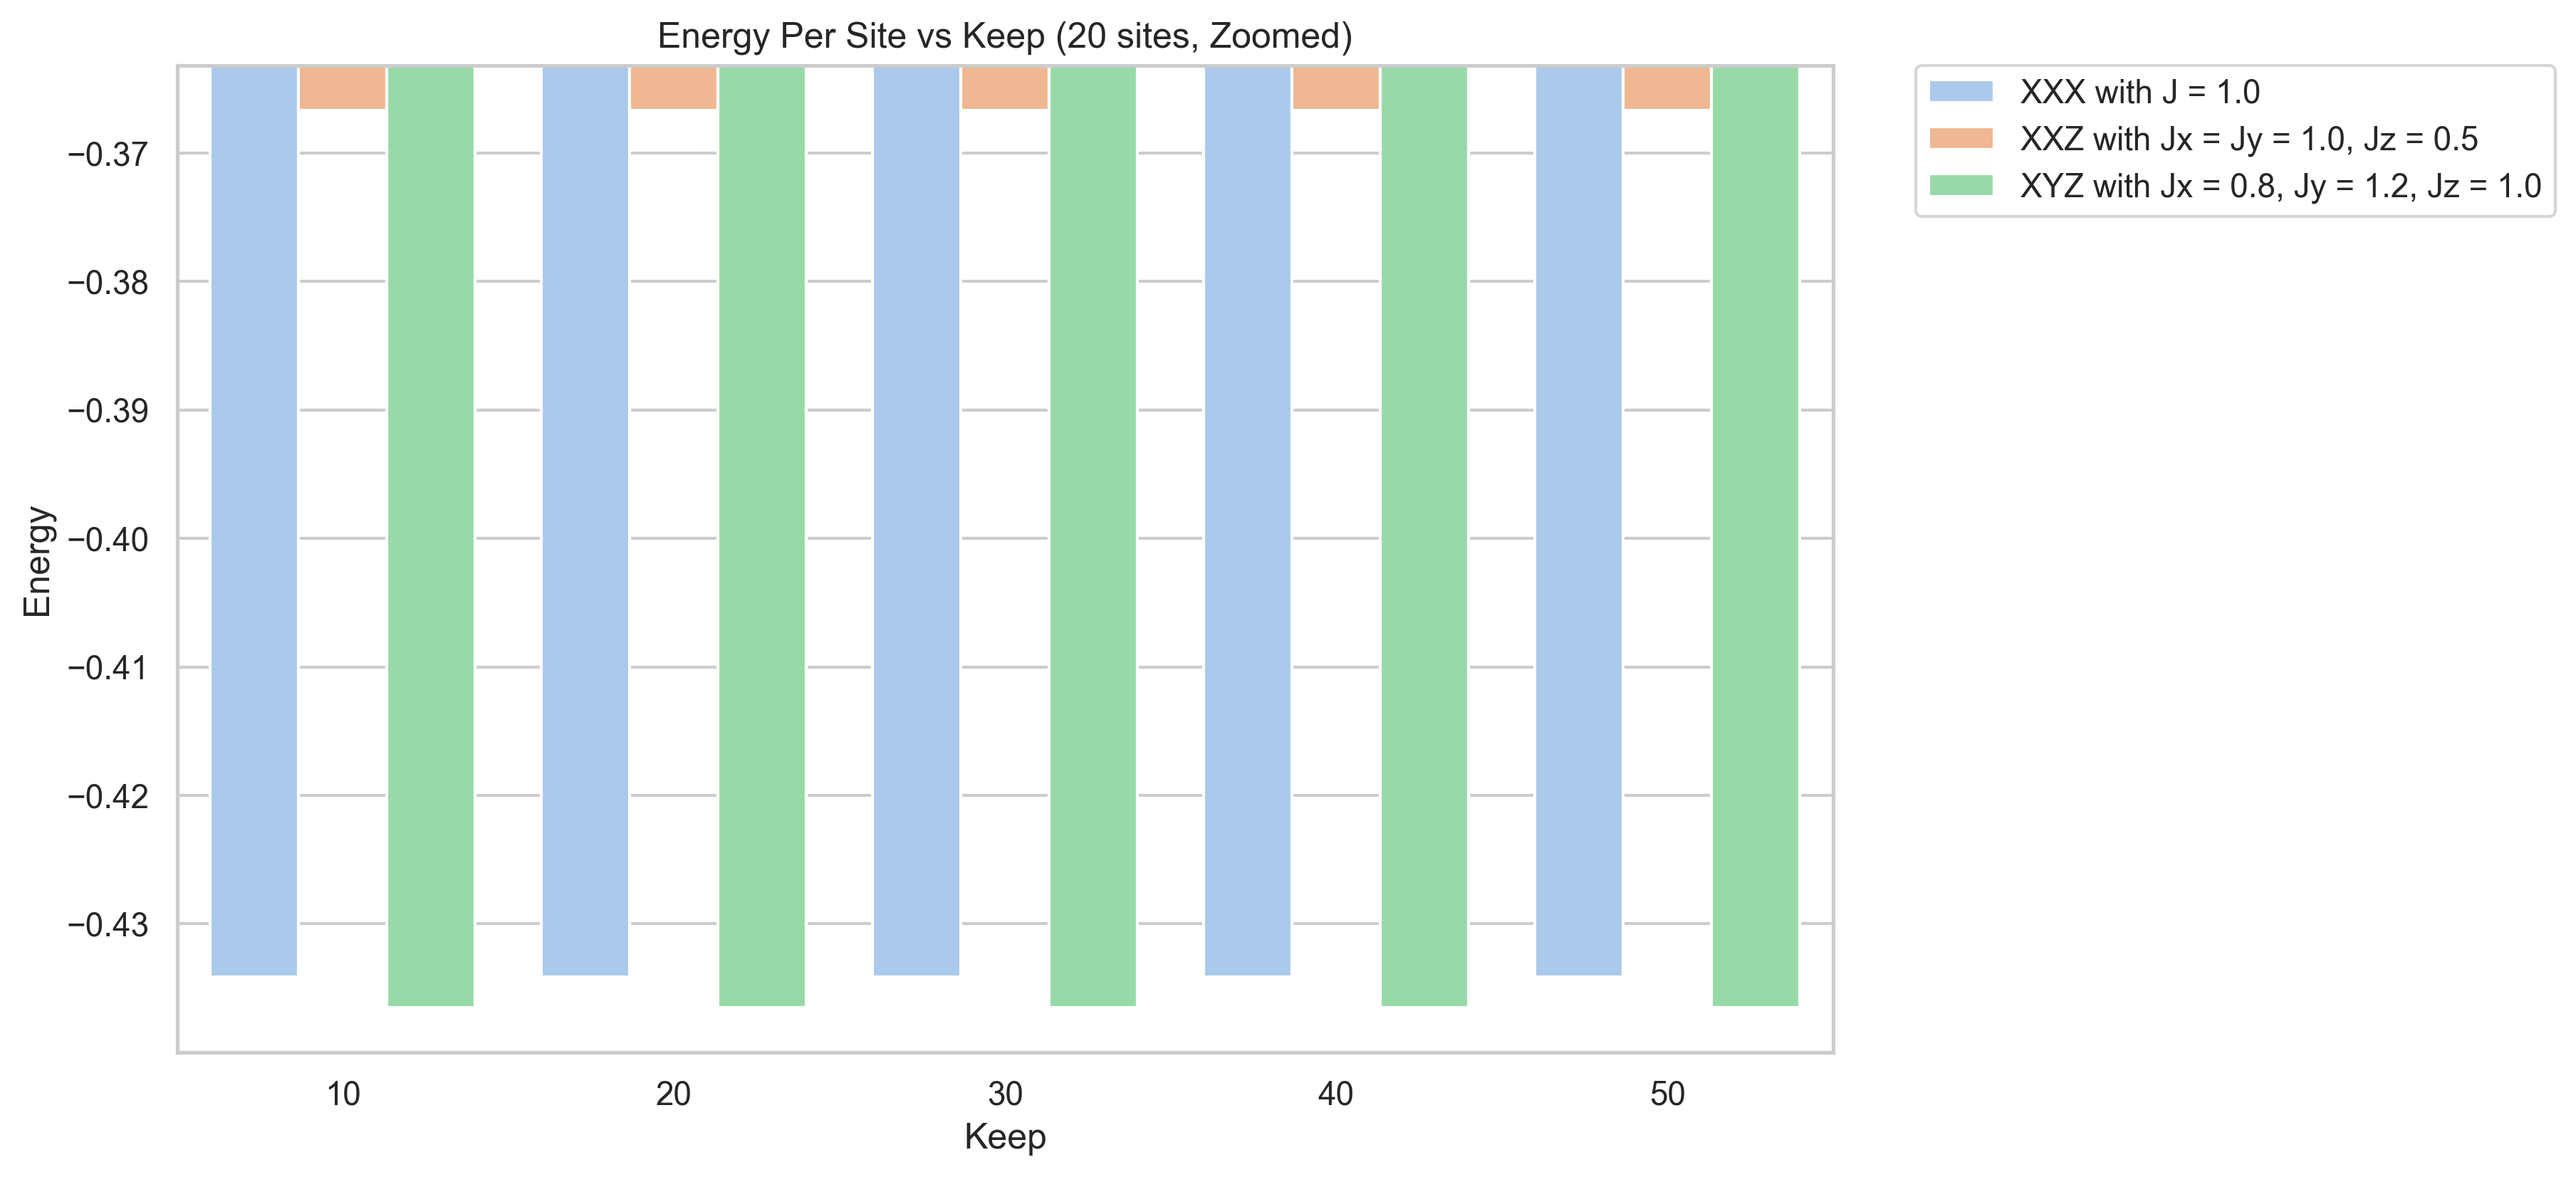
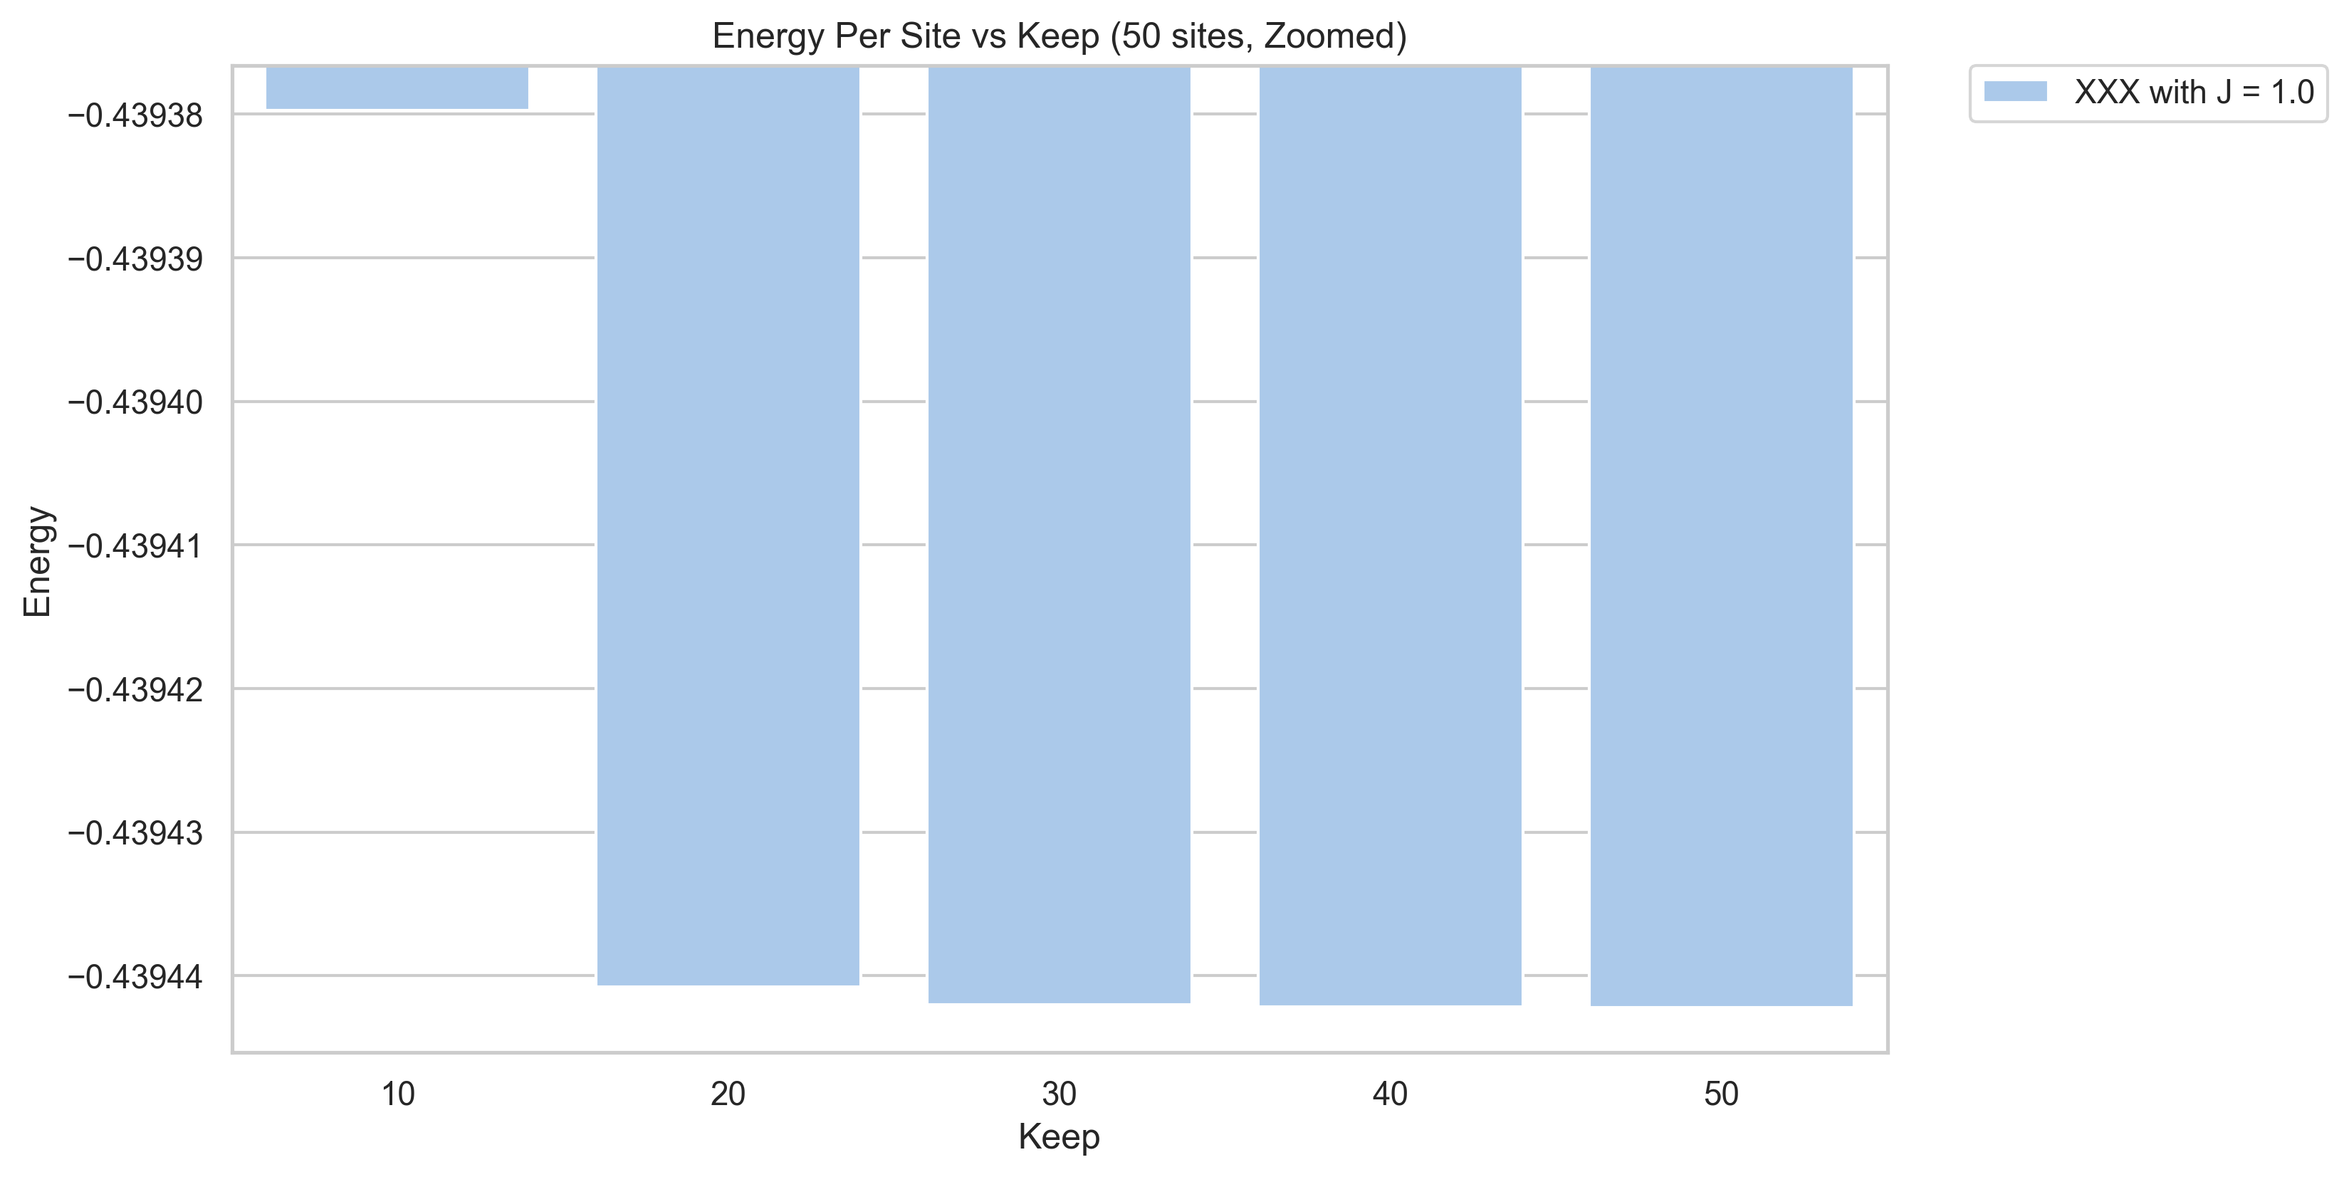
small graph changes

diff --git a/main.py b/main.py
@@ -161,7 +161,7 @@ def gen_XXX_graph(name, title):
     plt.savefig(os.path.join('visual', name), dpi=300, bbox_inches='tight')
     plt.close()
 
-def gen_XXZ_graph(name, title):
+def gen_XXZ_graph(name, title, labelled):
     j_list = [-2.0, -1.5, -1, -0.5, 0, 0.5, 1, 1.5, 2.0]
     start = single_site
     print(f"Creating graph {name}")
@@ -173,10 +173,15 @@ def gen_XXZ_graph(name, title):
             data.append({'Jx': jx, 'Jz': jz, 'Energy': energy})
 
     df = pd.DataFrame(data)
+    
     heatmap_data = df.pivot(index='Jx', columns='Jz', values='Energy')
 
     plt.figure(figsize=(8,6))
-    sns.heatmap(heatmap_data, cmap='coolwarm', cbar_kws={'label': 'Energy'})
+    if labelled == True:
+        sns.heatmap(heatmap_data, cmap='coolwarm', cbar_kws={'label': 'Energy'}, annot=True, fmt=".2f")
+    else:
+        sns.heatmap(heatmap_data, cmap='coolwarm', cbar_kws={'label': 'Energy'})
+
     plt.xlabel('Jz')
     plt.ylabel('Jx')
     plt.title(title)
@@ -192,14 +197,14 @@ def gen_keep_graph(name, title, zoom):
     print(f"Creating graph {name}")
     for k in keep_list:
         
-        energy = infinite_dmrg(sites=20, keep=k, start=start, debug=False, Jx=1.0, Jy=1.0, Jz=1.0)
+        energy = infinite_dmrg(sites=50, keep=k, start=start, debug=False, Jx=1.0, Jy=1.0, Jz=1.0)
         results.append({'Keep': k, 'Model': 'XXX with J = 1.0', 'Energy': energy})
 
-        energy = infinite_dmrg(sites=20, keep=k, start=start, debug=False, Jx=1.0, Jy=1.0, Jz=0.5)
-        results.append({'Keep': k, 'Model': 'XXZ with Jx = Jy = 1.0, Jz = 0.5', 'Energy': energy})
+    #    energy = infinite_dmrg(sites=50, keep=k, start=start, debug=False, Jx=1.0, Jy=1.0, Jz=0.5)
+     #   results.append({'Keep': k, 'Model': 'XXZ with Jx = Jy = 1.0, Jz = 0.5', 'Energy': energy})
         
-        energy = infinite_dmrg(sites=20, keep=k, start=start, debug=False, Jx=0.8, Jy=1.2, Jz=1.0)
-        results.append({'Keep': k, 'Model': 'XYZ with Jx = 0.8, Jy = 1.2, Jz = 1.0', 'Energy': energy})
+     #   energy = infinite_dmrg(sites=50, keep=k, start=start, debug=False, Jx=0.8, Jy=1.2, Jz=1.0)
+      #  results.append({'Keep': k, 'Model': 'XYZ with Jx = 0.8, Jy = 1.2, Jz = 1.0', 'Energy': energy})
 
     df = pd.DataFrame(results)
 
@@ -259,9 +264,10 @@ if __name__ == "__main__":
     np.set_printoptions(precision=10, suppress=True)
 
     os.makedirs('visual', exist_ok=True)
-    gen_keep_graph('energy_vs_keep.png', 'Energy Per Site vs Keep (20 sites)', False)
-    gen_keep_graph('energy_vs_keep_zoomed.png', 'Energy Per Site vs Keep (20 sites, Zoomed)', True)
-    gen_XXZ_graph('energy_vs_j_xxz.png', 'Energy Per Site vs Jx, Jz (Jx and Jz from -2.0 to 2.0, 10 sites)')
+    gen_keep_graph('energy_vs_keep.png', 'Energy Per Site vs Keep (50 sites)', False)
+    gen_keep_graph('energy_vs_keep_zoomed.png', 'Energy Per Site vs Keep (50 sites, Zoomed)', True)
+    gen_XXZ_graph('energy_vs_j_xxz_labelled.png', 'Energy Per Site vs Jx, Jz (Jx and Jz from -2.0 to 2.0, 10 sites)', labelled=True)
+    gen_XXZ_graph('energy_vs_j_xxz.png', 'Energy Per Site vs Jx, Jz (Jx and Jz from -2.0 to 2.0, 10 sites)', labelled=False)
     gen_XXX_graph('energy_vs_j_xxx.png', 'Energy Per Site vs J for XXX Heisenberg Models (J from -2 to 2, 30 sites)')
     gen_energy_graph('infinite_energy_vs_sites_zoomed.png', 'Energy Per Site vs Number of Sites for Different Heisenberg Models (Zoomed)', zoom=True)
     gen_energy_graph('infinite_energy_vs_sites.png', 'Energy Per Site vs Number of Sites for Different Heisenberg Models', zoom=False)
